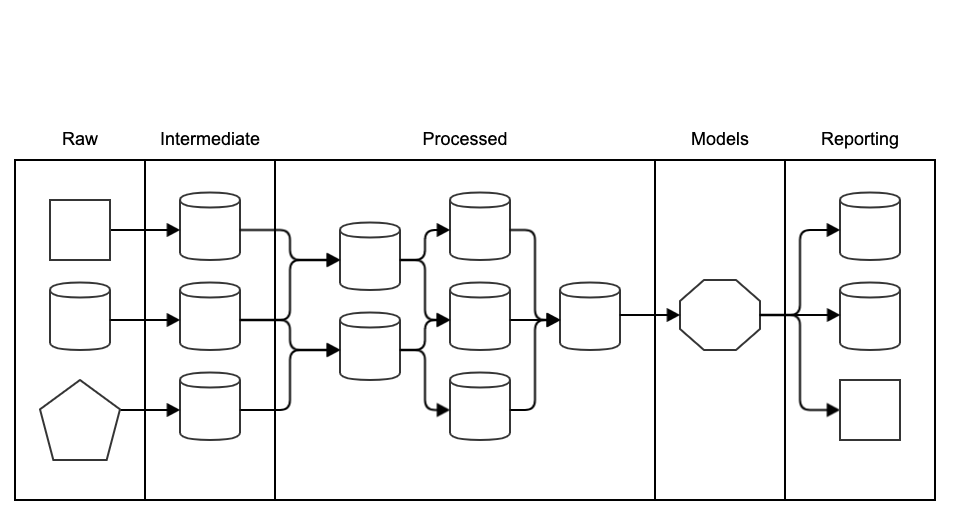
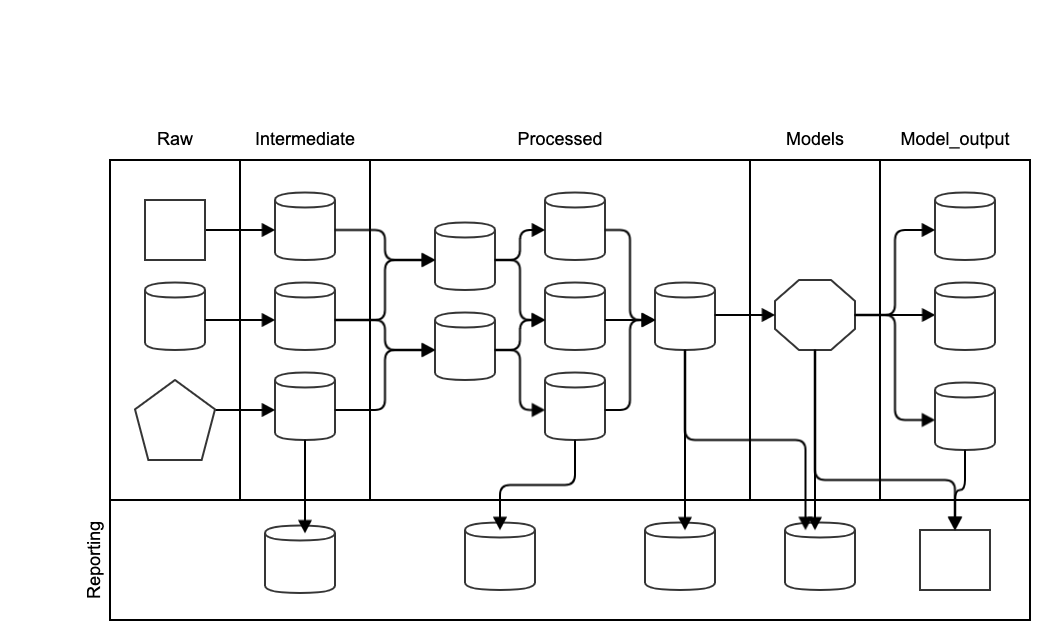
included model output layer

Changed region(s): [[0.0304, 0.1846, 1.0, 0.9846], [0.2429, 0.8923, 0.2733, 0.9231], [0.0304, 0.7692, 0.0607, 0.8]]

diff --git a/sources/curriculum/0_before_you_start/pipelines-and-project-workflow/README.md b/sources/curriculum/0_before_you_start/pipelines-and-project-workflow/README.md
@@ -68,12 +68,18 @@ The processed data is used to train predictive models, explanatory models, recom
 The trained models are stored in the model layer. 
 In contrast to the previous layers, models are usually stored in `pickle` because they are not in tabular format.
 
+
+##### Model output
+Model performance metrics, model selection information and predictions are kept in the model output layer.
+
+
 ##### Reporting
-Model performance metrics, predictions, recommendations etc. are stored in the reporting layer.
-If a front-end is constructed, it will access the reporting layer to display information to the user.
+Reporting can be performed across the pipeline.
+For example, there might be data quality reports on the inputs, distribution analysis on the processed data,
+predictions, explanations, recommendations that are provided to the user, and performance evaluation and tracking.
+If a front-end is constructed, it will access the reporting layer to display information to the users and developers.
 For example, a Tableau dashboard, power BI, a jupyter notebook or an excel output will read from the reporting layer.
 Accordingly, the format of the data in the reporting layer will be adjusted to the front end of choice. 
-Some teams choose to split the reporting layer into model output and reporting. 
 
 
 ![Data pipeline](data_pipeline.png "Data pipeline")
@@ -99,7 +105,8 @@ Directory structure:
 │   ├── 02_intermediate<- Cleaned version of raw
 │   ├── 03_processed   <- The data used for modelling
 │   ├── 04_models      <- trained models
-│   └── 05_reporting   <- Reports and input to frontend
+│   ├── 05_model_output<- model output
+│   └── 06_reporting   <- Reports and input to frontend
 │
 ├── docs               <- Space for Sphinx documentation
 │
@@ -133,10 +140,12 @@ Directory structure:
     │
     ├── d04_modelling  <- Scripts to train models and then use trained models to make
     │   │                 predictions
-    │   ├── predict_model.py
     │   └── train_model.py
     │
-    ├── d05_reporting  <- Scripts to turn produce reporting tables
+    ├── d05_model_evaluation<- Scripts that analyse model performance and model selection
+    │   └── calculate_performance_metrics.py
+    │    
+    ├── d06_reporting  <- Scripts to produce reporting tables
     │   └── create_rpt_payment_summary.py
     │
     └── d06_visualisation<- Scripts to create frequently used plots
